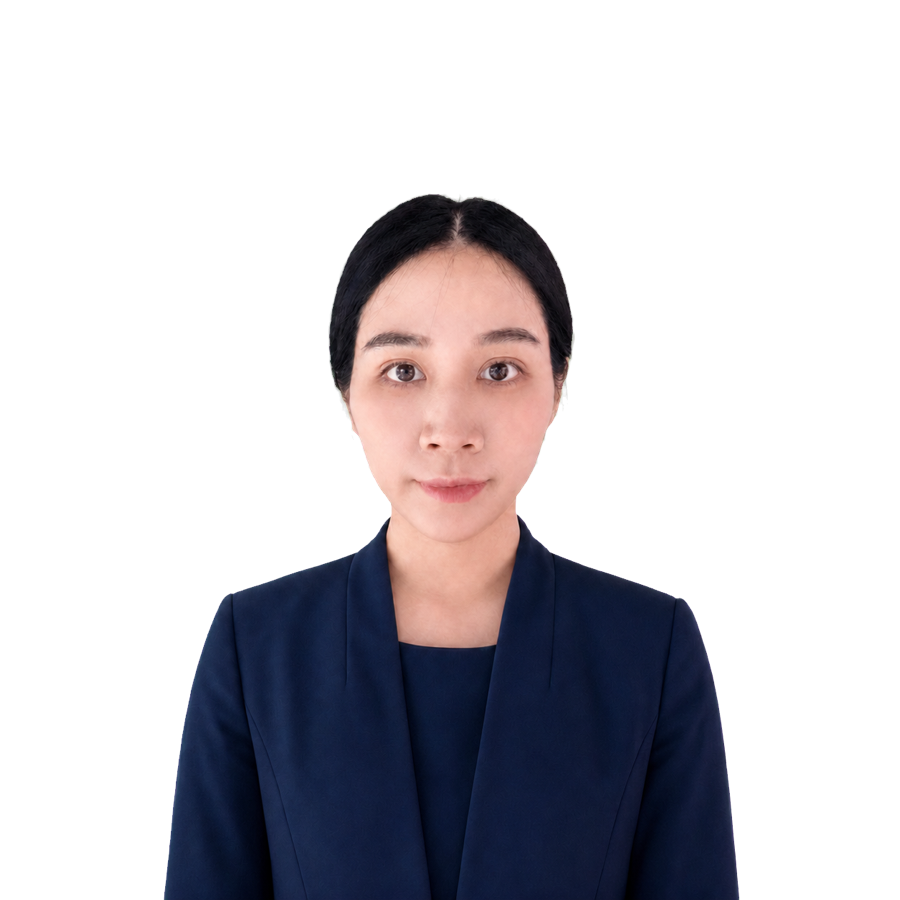
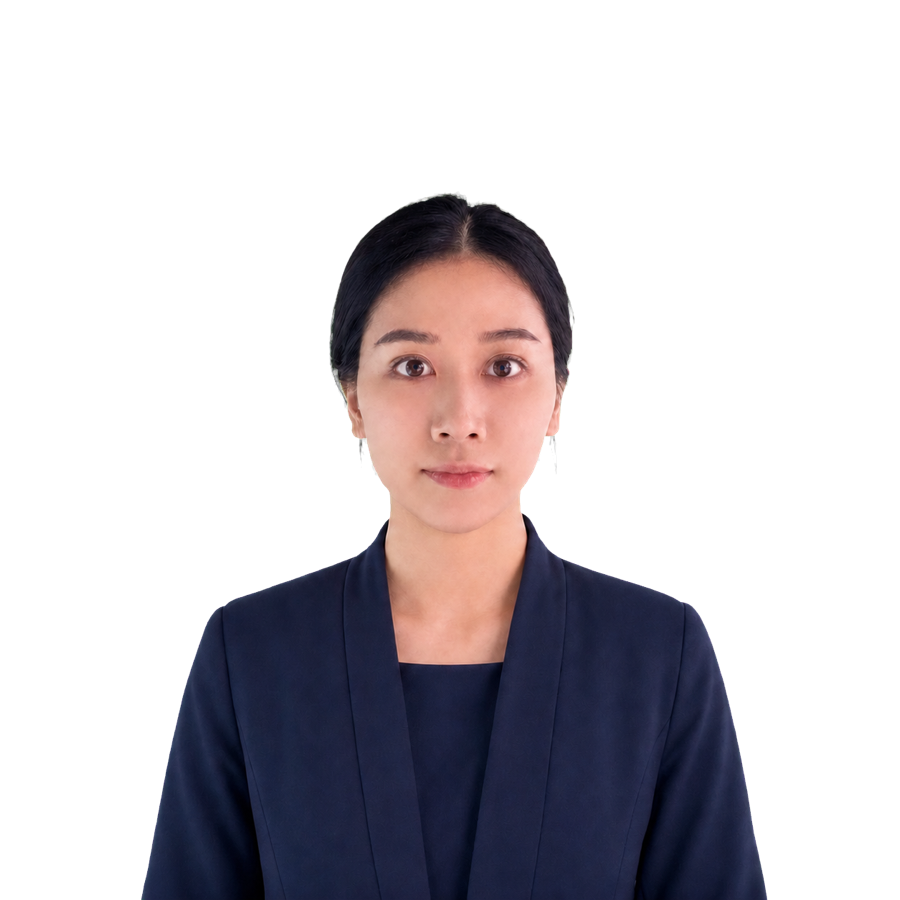
fix: refresh reception cards and floor guide

diff --git a/app/globals.css b/app/globals.css
@@ -95,7 +95,7 @@ button, summary, a { -webkit-tap-highlight-color: transparent; }
 .marker-40 { top: 20%; }
 .marker-30 { top: 40%; }
 .marker-20 { top: 60%; }
-.marker-10 { top: 80%; }
+.marker-10 { top: 72%; }
 .building-metrics { position: absolute; z-index: 3; inset: auto 22px 22px; display: grid; grid-template-columns: 1fr 1.25fr; gap: 8px; }
 .building-metrics > div { padding: 14px 16px; border: 1px solid rgba(231, 207, 156, .42); border-radius: 16px; color: #fff; background: linear-gradient(145deg, rgba(5, 29, 57, .86), rgba(42, 43, 49, .74)); box-shadow: inset 0 1px rgba(255, 239, 201, .12); backdrop-filter: blur(16px); }
 .building-metrics strong { display: block; font-size: 23px; letter-spacing: -.04em; }

diff --git a/app/page.tsx b/app/page.tsx
@@ -1,7 +1,7 @@
 const team = [
   {
     index: "01",
-    role: "T3写字楼物业负责人",
+    role: "T3物业负责人",
     tag: "统筹管理",
     name: "T3栋物业负责人",
     image: "/wuxingming-cutout.png",
